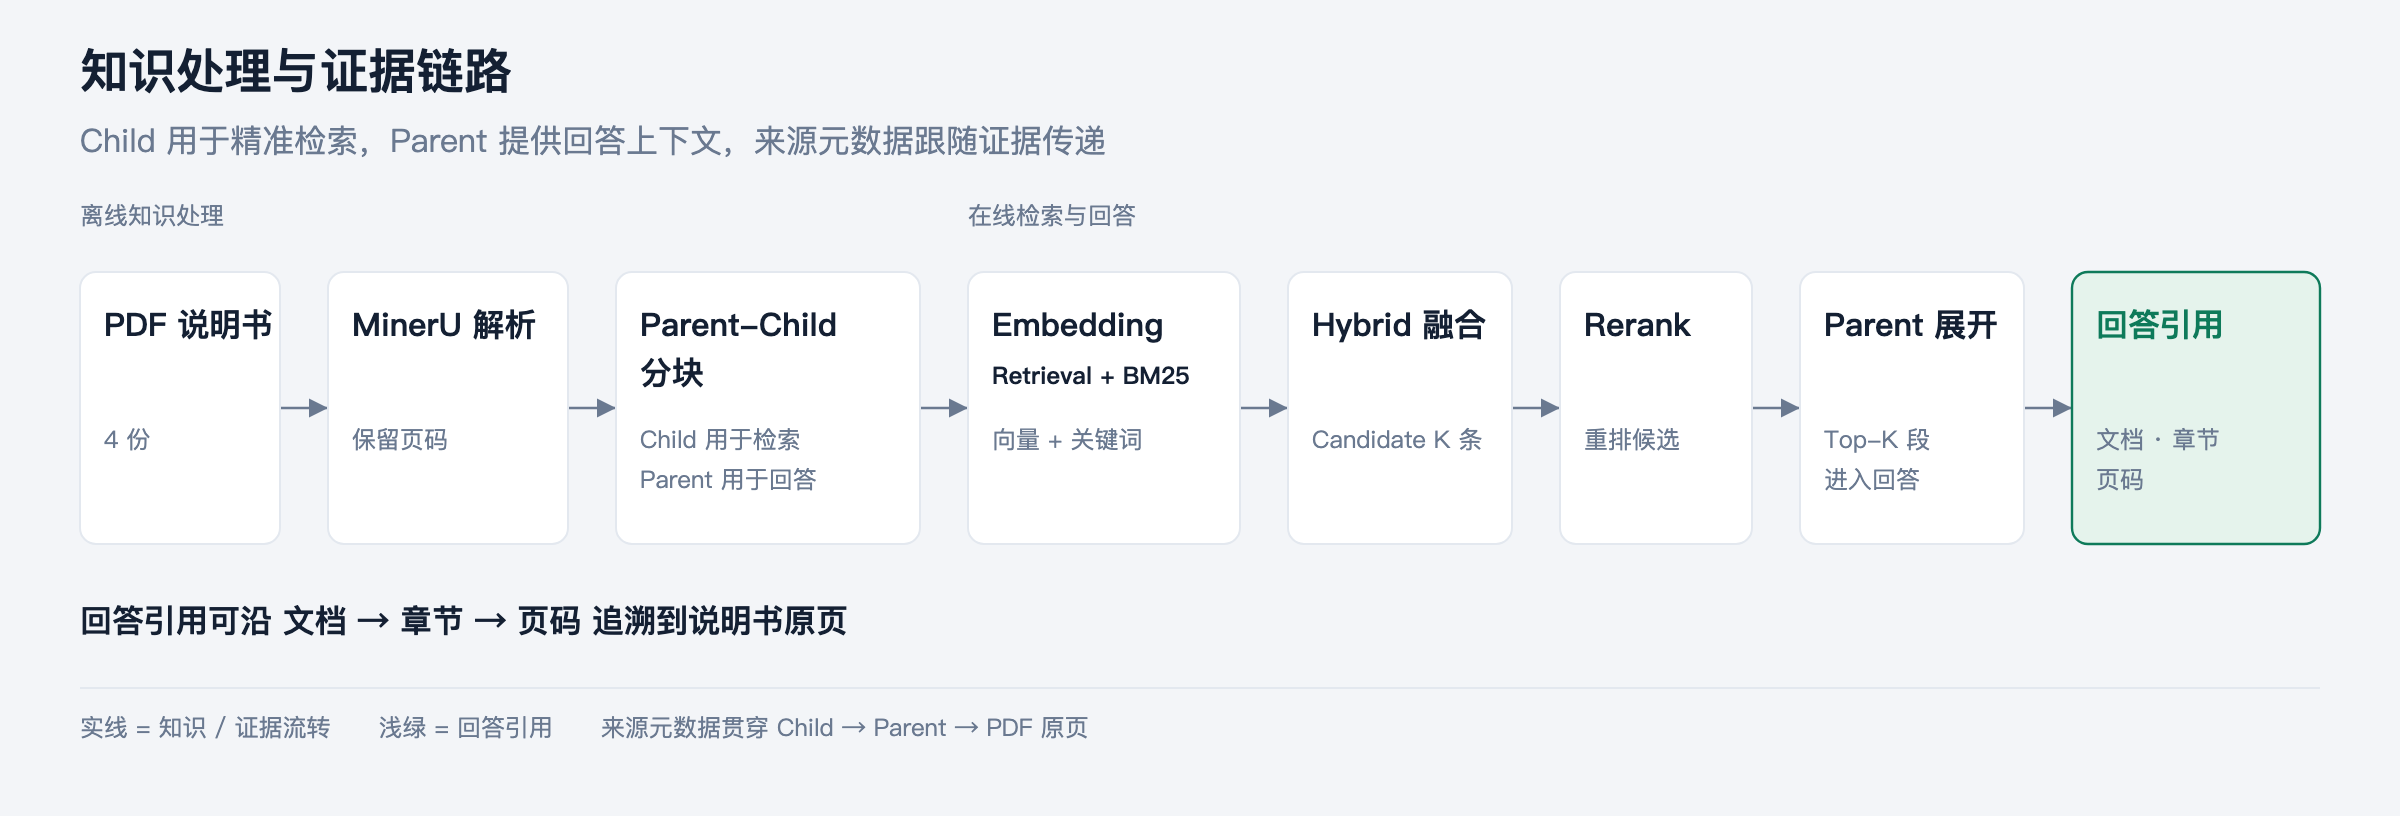
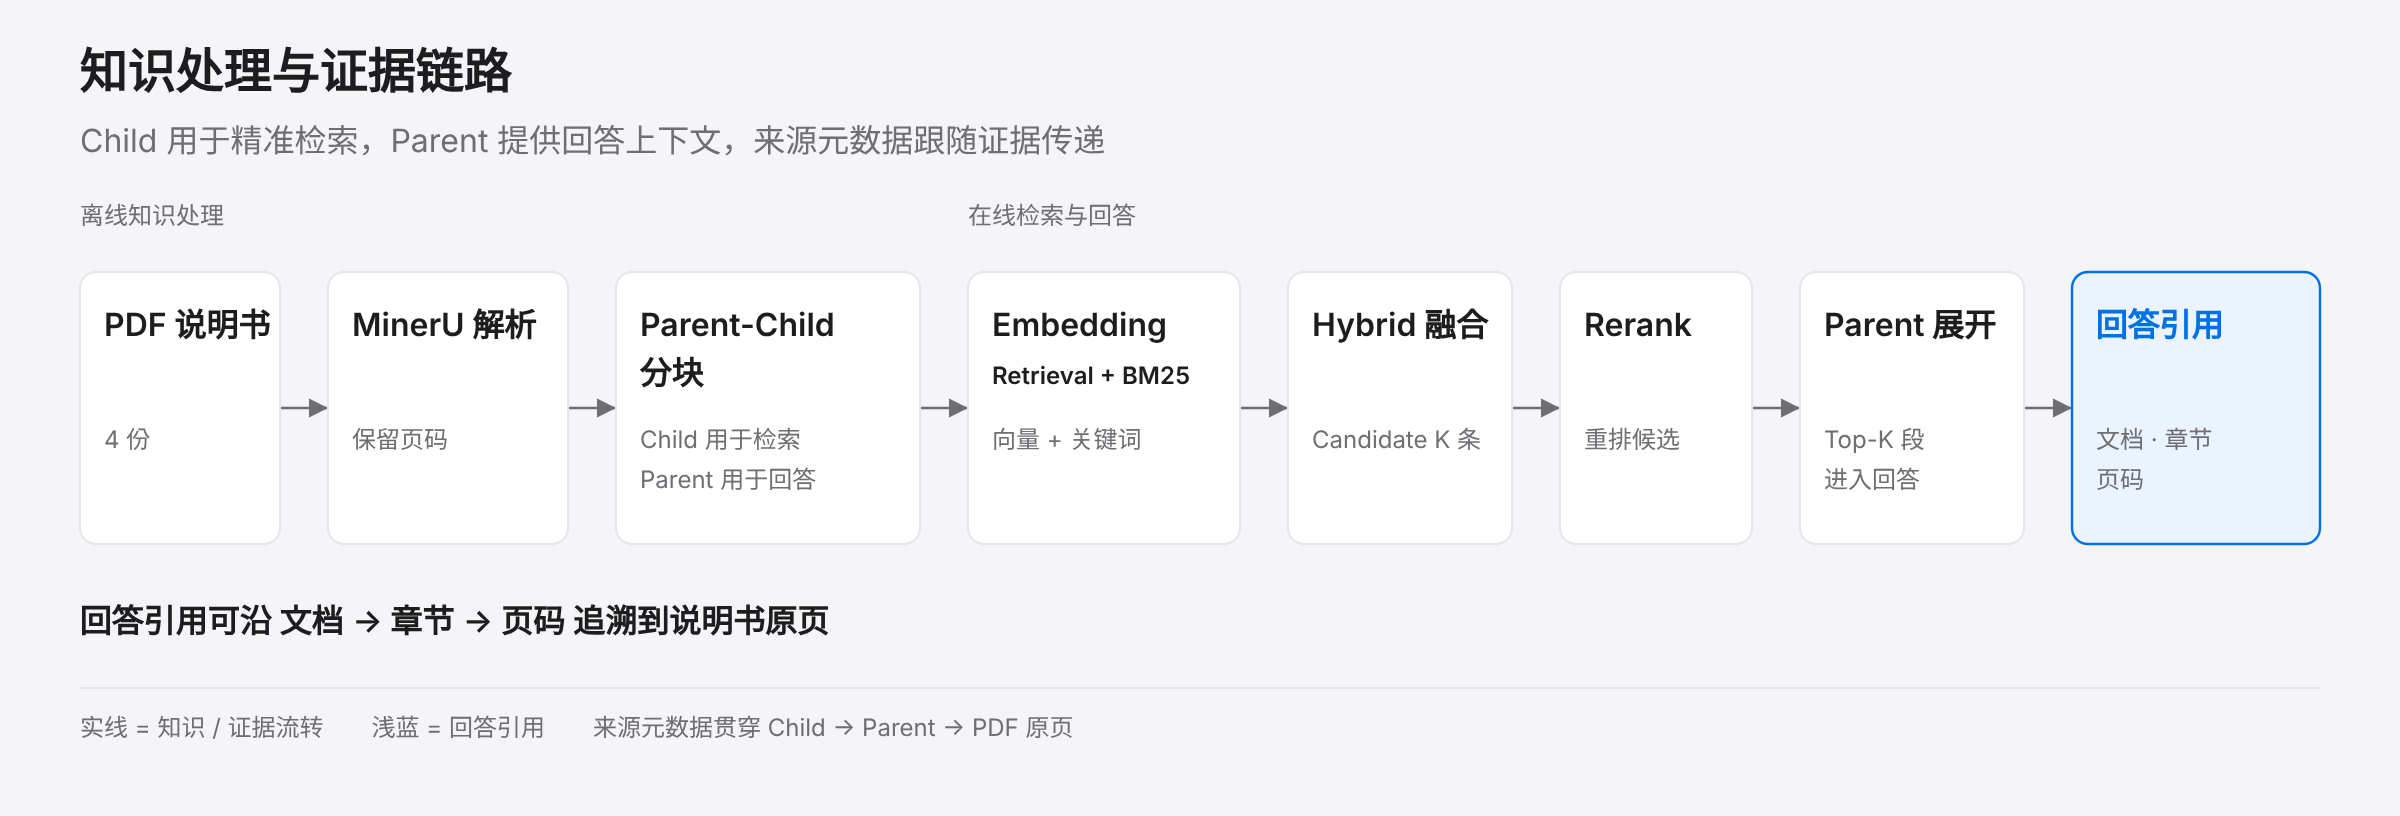
架构图改用色板 A（蓝色强调），重导 PNG；README 用新架构图替换 Mermaid（修正'零新增 Bad Case'口径）
Claude-Session: https://claude.ai/code/session_01Fhm1JCkRRqV7tWfwhMDuUE

diff --git a/README.md b/README.md
@@ -37,19 +37,13 @@
 
 ## 闭环流程
 
-```mermaid
-flowchart LR
-  KB["知识库<br/>说明书切块 · 可溯源"] --> GD["Golden Dataset<br/>覆盖规划 · 质检"]
-  GD --> G1{{"人工关口 ①<br/>题卷冻结"}}
-  G1 --> BL["Baseline 评测<br/>Judge · 11 项 Hard Gate"]
-  BL --> AG["Agent 优化<br/>Candidate A/B/C"]
-  AG --> SB["Sandbox<br/>同卷评测"] --> RG["Regression Check<br/>零新增 Bad Case"]
-  RG -- "无合格方案：进入下一轮" --> AG
-  RG -- "出现合格方案" --> G2{{"人工关口 ②<br/>实验报告确认"}}
-  G2 --> D["Candidate D<br/>在 Winner 上精修"] --> G3{{"人工关口 ③<br/>发布授权 · 可回滚"}}
-  G3 --> QA["问答验证<br/>实时问答 · Before/After · 线上反馈"]
-  QA -. "人工标记 Bad Case" .-> AG
-```
+![业务架构：从可信评测到受控优化，再到人工发布](docs/images/architecture-business.png)
+
+## 技术架构
+
+![技术架构：治理服务调度，RAG Pipeline 受控演进](docs/images/architecture-technical.png)
+
+![知识处理与证据链路](docs/images/knowledge-evidence-flow.png)
 
 ---
 
